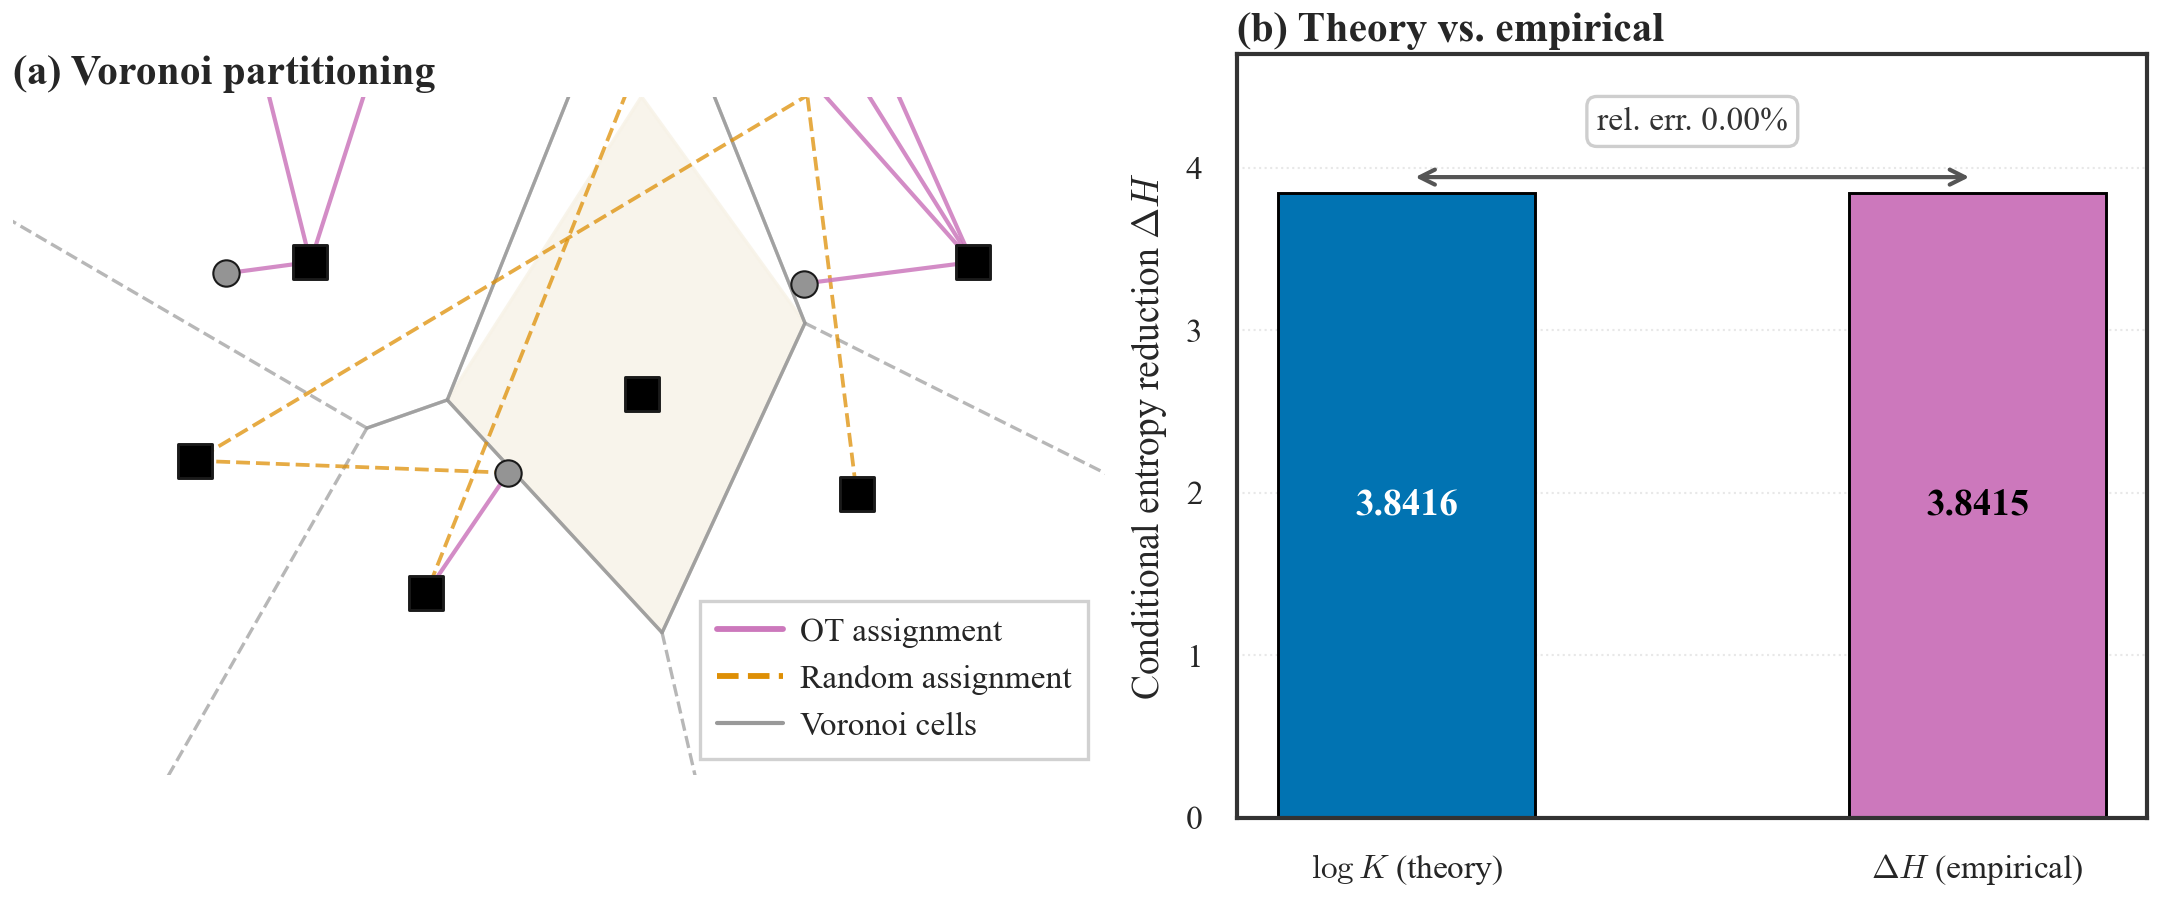
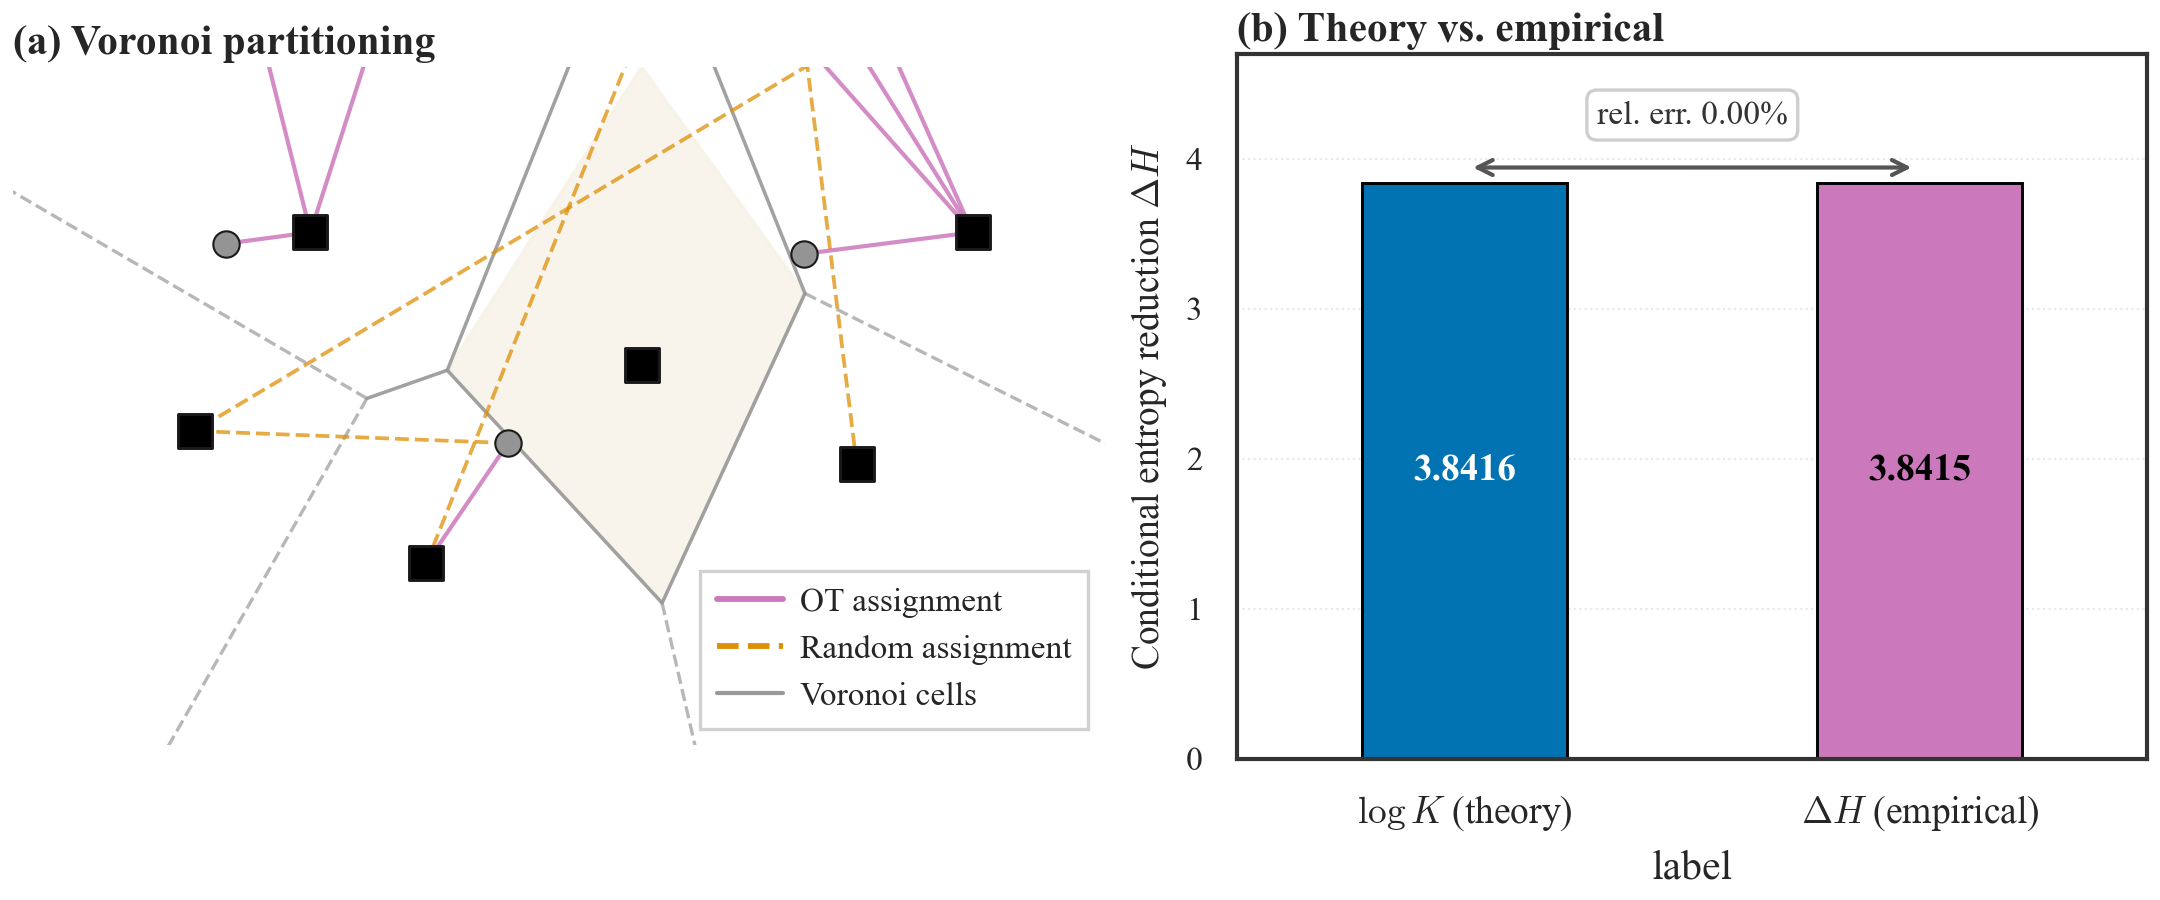
refactor(figures): seaborn API rewrite for all data-driven panels
- solver_ablation: sns.barplot(hue=solver) with DataFrame
- per_class_ap: sns.barplot(hue=group) with DataFrame
- training_stability: sns.lineplot(hue=method) with tidy DataFrame
- entropy_phase: sns.lineplot(theory) + sns.scatterplot(data) + lead_label
- ot_theory panel(b): sns.barplot(hue=label)
- tech_pipeline panel(b): sns.lineplot(hue=schedule)

Retained matplotlib for:
- method_overview panel(a): 2D parametric curves (unsuitable for sns)
- ot_theory panel(a): Voronoi (scipy.spatial)
- qual_mosaic/tech_pipeline: image display + custom patches

diff --git a/docs/paper/latex/figures/ot_theory.py b/docs/paper/latex/figures/ot_theory.py
@@ -12,6 +12,7 @@ Outputs: ot_theory.pdf, ot_theory.png
 
 from __future__ import annotations
 
+import pandas as pd
 import numpy as np
 import matplotlib.pyplot as plt
 from scipy.spatial import Voronoi as SciVoronoi
@@ -134,29 +135,27 @@ def panel_dh(ax: plt.Axes) -> None:
     empirical = 3.8415
     rel_err = abs(theory - empirical) / theory * 100
 
-    bar_labels = [r"$\log K$ (theory)", r"$\Delta H$ (empirical)"]
-    values = [theory, empirical]
-    colors_panel = [C_RF, C_OT]
+    # Tidy DataFrame
+    df_bar = pd.DataFrame({
+        "label": [r"$\log K$ (theory)", r"$\Delta H$ (empirical)"],
+        "value": [theory, empirical],
+    })
+    PAL_BAR = [C_RF, C_OT]
 
-    x = np.arange(2)
-    bars = ax.bar(x, values, width=0.45, color=colors_panel,
-                  edgecolor="black", lw=0.7)
+    sns.barplot(data=df_bar, x="label", y="value",
+                hue="label", palette=PAL_BAR, edgecolor="black",
+                linewidth=0.7, saturation=1, width=0.45,
+                ax=ax, legend=False)
 
-    # Inside-bar labels: use contrasting text color
-    for bar, v, col in zip(bars, values, colors_panel):
-        # Determine text color based on bar brightness
-        if isinstance(col, tuple) and len(col) >= 3:
-            brightness = 0.299 * col[0] + 0.587 * col[1] + 0.114 * col[2]
-        else:
-            brightness = 0.5  # default
+    # Value labels inside bars — adaptive text color
+    for bar, val, col in zip(ax.patches, [theory, empirical], PAL_BAR):
+        brightness = 0.299*col[0] + 0.587*col[1] + 0.114*col[2]
         txt_color = "white" if brightness < 0.5 else "black"
         ax.text(bar.get_x() + bar.get_width() / 2,
                 bar.get_y() + bar.get_height() / 2,
-                f"{v:.4f}", ha="center", va="center",
+                f"{val:.4f}", ha="center", va="center",
                 fontsize=9, color=txt_color, fontweight="bold")
 
-    ax.set_xticks(x)
-    ax.set_xticklabels(bar_labels, fontsize=8)
     ax.set_ylabel(r"Conditional entropy reduction $\Delta H$", fontsize=9)
     ax.set_ylim(0.0, 4.7)
     ax.set_axisbelow(True)

diff --git a/docs/paper/latex/figures/tech_pipeline.py b/docs/paper/latex/figures/tech_pipeline.py
@@ -12,9 +12,10 @@ Outputs: tech_pipeline.pdf, tech_pipeline.png
 
 from __future__ import annotations
 
+import pandas as pd
 import numpy as np
 import matplotlib.pyplot as plt
-from matplotlib.patches import FancyArrowPatch, Rectangle, FancyBboxPatch
+from matplotlib.patches import FancyBboxPatch, Rectangle
 from matplotlib.lines import Line2D
 
 from figure_style import *
@@ -105,8 +106,19 @@ def panel_schedule(ax: plt.Axes) -> None:
     shift = 3.0
     shifted = shift / (1 + (shift - 1) * t) ** 2
 
-    ax.plot(t, linear, color=C_RAND, lw=1.5, label="Linear (uniform)")
-    ax.plot(t, shifted, color=C_RF, lw=1.5, label=f"Shifted ($s$={shift})")
+    # Build tidy DataFrame
+    df_sched = pd.DataFrame({
+        "t": np.concatenate([t, t]),
+        "density": np.concatenate([linear, shifted]),
+        "schedule": (["Linear (uniform)"] * len(t)
+                     + [f"Shifted ($s$={shift})"] * len(t)),
+    })
+
+    sns.lineplot(data=df_sched, x="t", y="density", hue="schedule",
+                 palette={"Linear (uniform)": C_RAND,
+                          f"Shifted ($s$={shift})": C_RF},
+                 linewidth=1.5, ax=ax)
+    # Fill between for shifted (seaborn has no fill_between equivalent)
     ax.fill_between(t, 0, shifted, color=C_RF, alpha=0.12)
     ax.fill_between(t, 0, linear, color=C_RAND, alpha=0.08)
 
